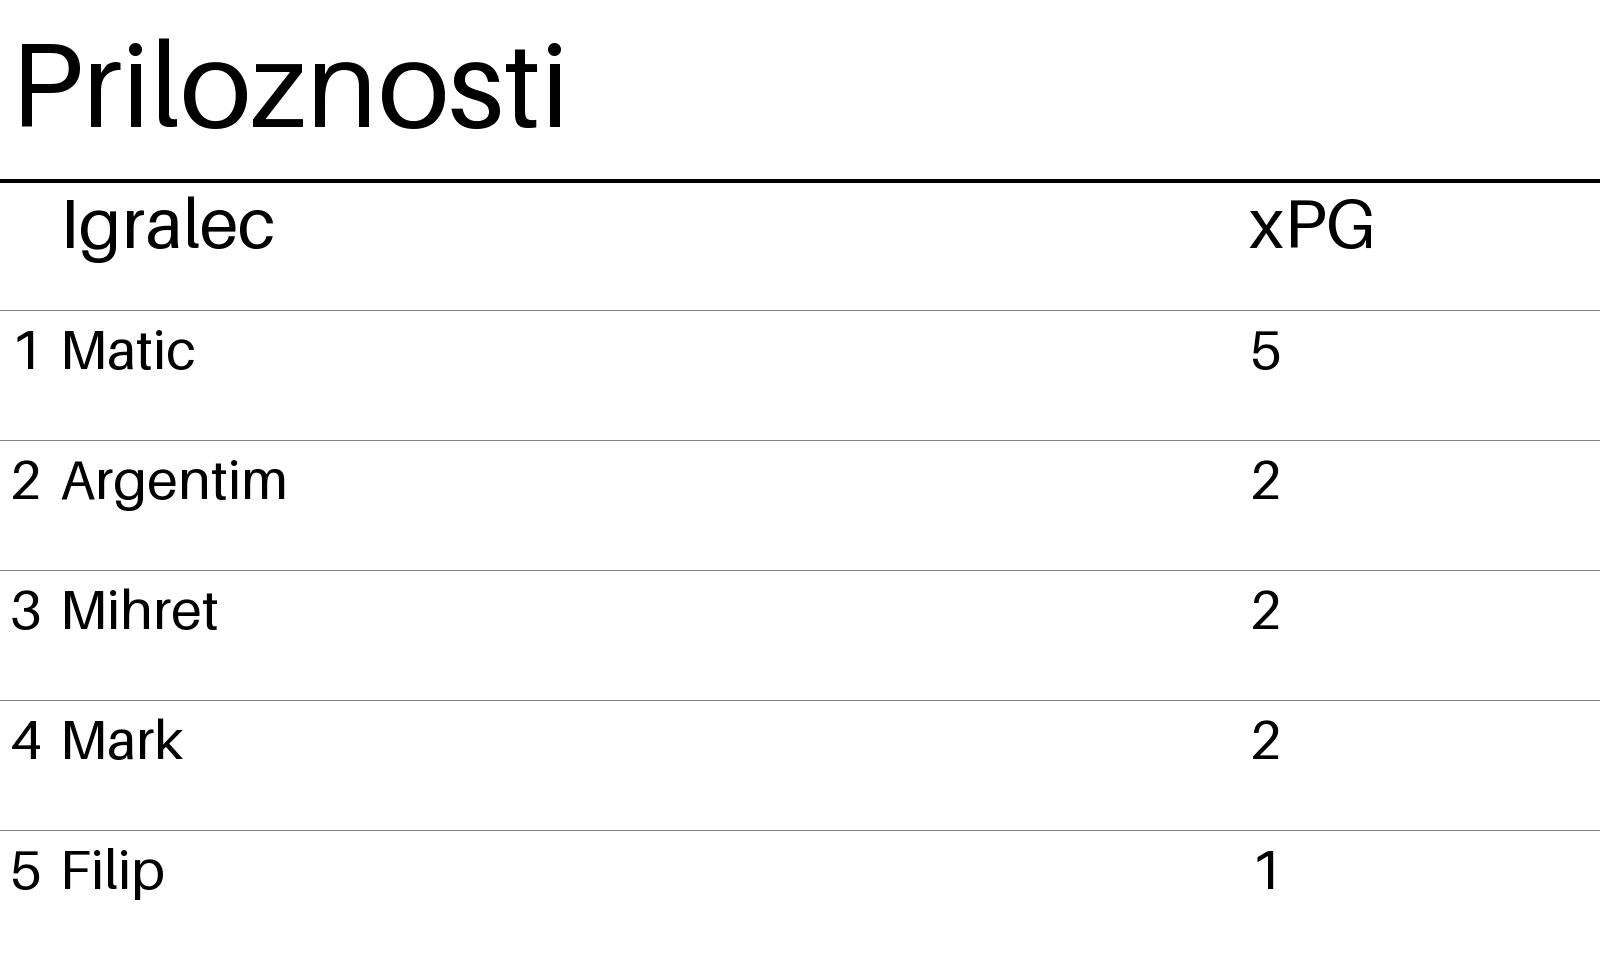
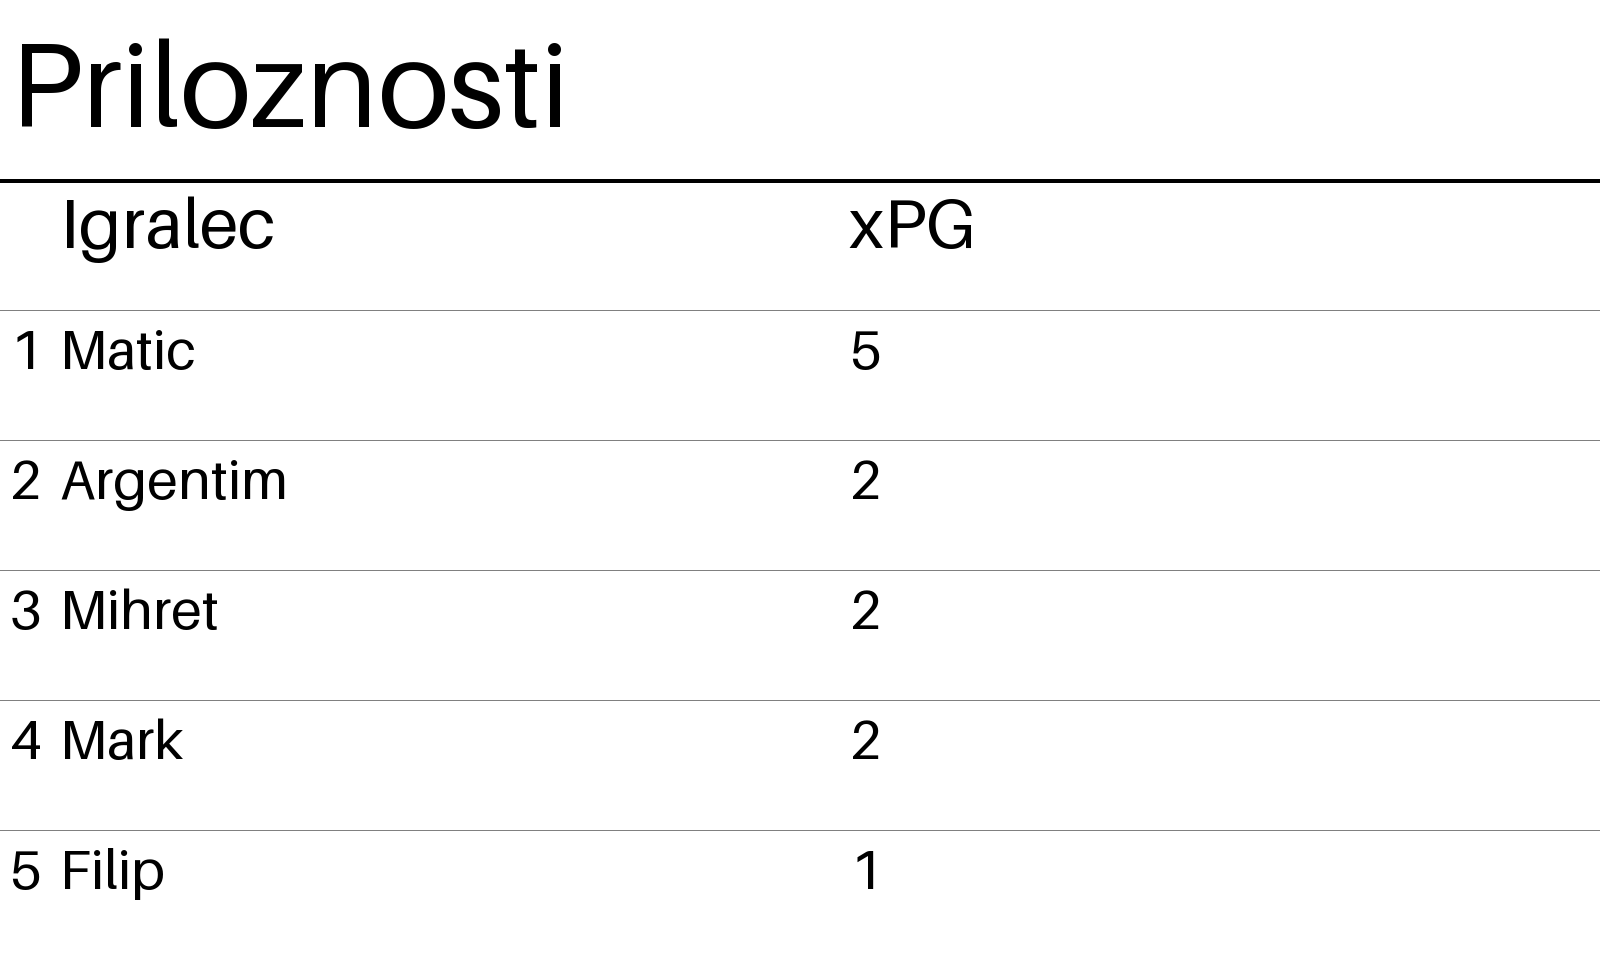
fixed capitazliation and team vs team text

diff --git a/app/main.py b/app/main.py
@@ -99,11 +99,11 @@ def create_table_image(table_name: str, data: List[TopPlayer], file_path: str,ty
     draw.text((60, header_height), "Igralec", fill="black", font=font_medium)
 
     if type=="goals":
-        draw.text((image_width - 350, header_height), "Doseženi goli", fill="black", font=font_medium)
+        draw.text((image_width - 750, header_height), "Dosezeni goli", fill="black", font=font_medium)
     elif type=="assists":
-        draw.text((image_width - 350, header_height), "Število asistenc", fill="black", font=font_medium)
+        draw.text((image_width - 750, header_height), "Stevilo asistenc", fill="black", font=font_medium)
     elif type=="xpg":
-        draw.text((image_width - 350, header_height), "xPG", fill="black", font=font_medium)
+        draw.text((image_width - 750, header_height), "xPG", fill="black", font=font_medium)
     
     # Draw horizontal line after the header
     draw.line((0, header_height, image_width, header_height), fill="black", width=4)
@@ -118,7 +118,7 @@ def create_table_image(table_name: str, data: List[TopPlayer], file_path: str,ty
         # Player Name
         draw.text((60, y_position + 5), player.name.capitalize(), fill="black", font=font_regular)
         # Score/Count
-        draw.text((image_width - 350, y_position + 5), str(player.count), fill="black", font=font_regular)
+        draw.text((image_width - 750, y_position + 5), str(player.count), fill="black", font=font_regular)
     
     # Save the image
     image.save(f"app/assets/{table_name}-{file_path}.png")
@@ -153,7 +153,7 @@ def add_image_to_clip(clip, image_path):
     return final_clip
 
 
-def add_premier_league_style_banner(clip, text):
+def add_highlight_banner(clip, text):
     # Banner settings
     banner_duration = 6
     banner_image_path = "app/assets/banner.png"
@@ -211,8 +211,8 @@ def make_highlights_reel(top_scorer_name,top_assists_name,top_opportunities,sour
 
     # List of highlights
     # Duration of each clip in seconds
-    duration_before = 4  # 5 seconds before the timestamp
-    duration_after = 10  # 12 seconds after the timestamp
+    duration_before = 2  # 5 seconds before the timestamp
+    duration_after = 8  # 12 seconds after the timestamp
 
     # Duration of the transition (in seconds)
     transition_duration = 0.5
@@ -246,6 +246,7 @@ def make_highlights_reel(top_scorer_name,top_assists_name,top_opportunities,sour
         player_name = highlight["scorer"]
         team = highlight.get("team")
         game = highlight.get("game")
+        assist = highlight.get("assist")
         audio_file_name = f"highlight_{index}"
 
         if text_commentary is not None:
@@ -261,11 +262,11 @@ def make_highlights_reel(top_scorer_name,top_assists_name,top_opportunities,sour
                 game,teamOneGoals,teamTwoGoals = list(filter(lambda x:x["game"]==game,scores))[0].values()
             except:
                 game,teamOneGoals,teamTwoGoals = game,0,0
-            overlay_text = f"Tekma: {player_name} proti {team} ({teamOneGoals}:{teamTwoGoals})"
+            overlay_text = f"Tekma: {player_name.capitalize()} proti {assist.capitalize()} ({teamOneGoals}:{teamTwoGoals})"
         else:
-            overlay_text = f"{event_type}: {player_name} (Ekipa {team})"
+            overlay_text = f"{event_type.upper()}: {player_name.capitalize()} ({team.upper()})"
 
-        clip_with_banner = add_premier_league_style_banner(clip, overlay_text)
+        clip_with_banner = add_highlight_banner(clip, overlay_text)
         # Combine the video clip with the audio commentary
         if text_commentary:
             clip_with_audio = clip_with_banner.set_audio(commentary_audio)
@@ -341,9 +342,11 @@ if __name__ == "__main__":
     timestamps = prepare_timestamp(file_path)
     scores = calculate_match_scores(timestamps)
     top_goal_scorers, top_opportunity_creators,top_assists_creators = get_top_players(timestamps)
+
     top_scorer_name = "Strelci"
-    top_assists_name = "Assistence"
+    top_assists_name = "Asistence"
     top_opportunities = "Priloznosti"
+
     create_table_image(top_scorer_name,top_goal_scorers,file_path,"goals")
     create_table_image(top_opportunities,top_opportunity_creators,file_path,"xpg")
     create_table_image(top_assists_name,top_assists_creators,file_path,"assists")
